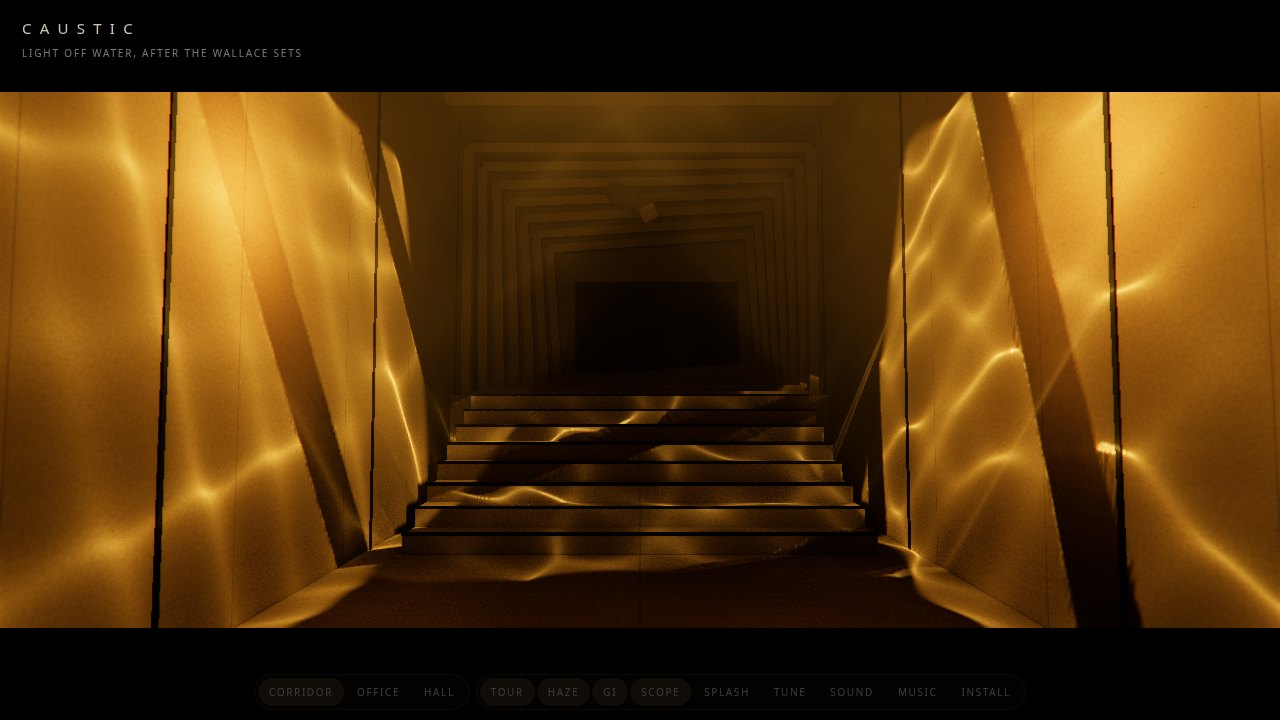
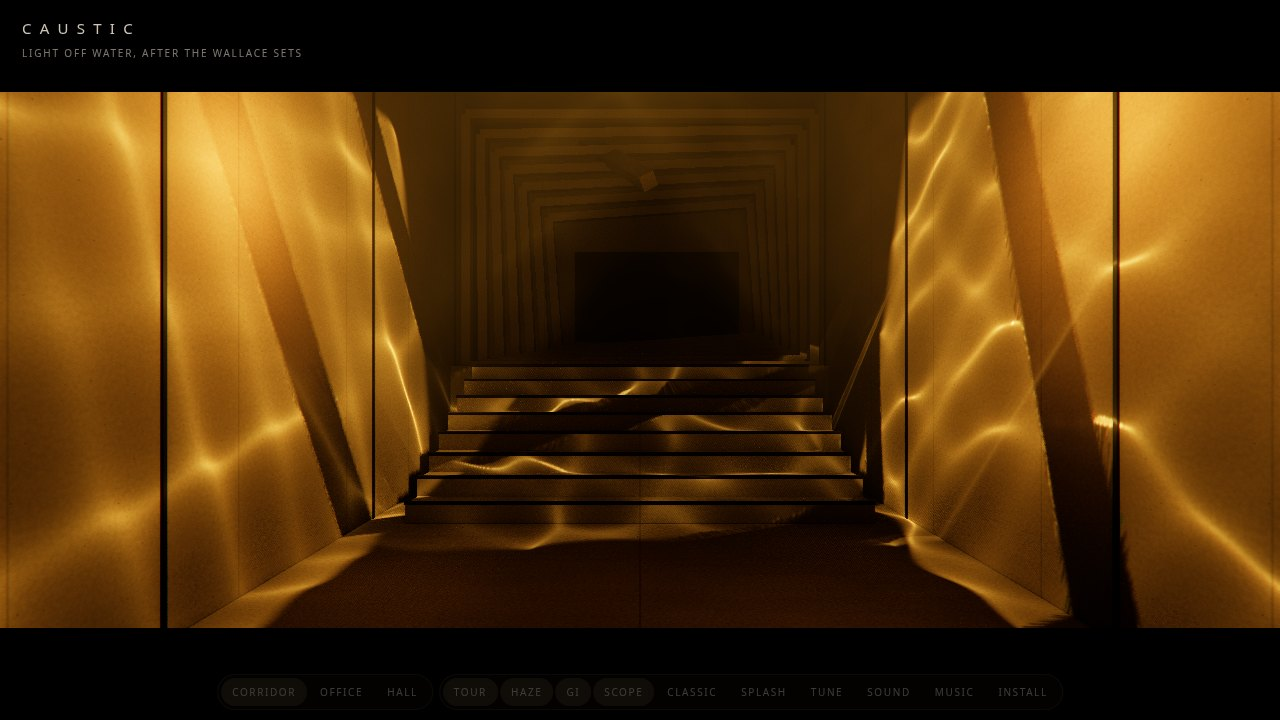
Caustic: square camera moves in every set (level, straight at a wall); hall centred, back and both side walls lit; smoke tolerates position probes on edges

diff --git a/vibes/caustic/scenes.js b/vibes/caustic/scenes.js
@@ -120,9 +120,11 @@ export function corridor(renderer, { phone = false, hq = false } = {}) {
     look: { exposure: 0.72, ...GRADE, haze: 0.0205, fog: 0x2a1f0c, bg: 0x050302 },
     volume: { size: [W, H + 1.5, z0 - z1], at: [0, (H + 1.5) / 2, (z0 + z1) / 2] },
     shots: [
-      { from: [0, 1.55, 2.6], to: [0, 1.6, -1.2], look0: [0, 2.0, -8], look1: [0, 2.1, -9], dur: 16, fov: 58 },
-      { from: [-2.0, 3.2, -1.5], to: [-1.6, 3.0, -3.5], look0: [2.6, 2.2, -4], look1: [2.6, 2.0, -6], dur: 12, fov: 50 },
-      { from: [1.5, 0.45, -2.2], to: [0.8, 0.6, -3.6], look0: [0, 1.0, -8], look1: [0, 1.6, -9], dur: 12, fov: 58 },
+      // every shot square to the room: the camera looks level and straight at a wall, so its verticals stay
+      // vertical and its edges run square across the frame
+      { from: [0, 1.6, 2.6], to: [0, 1.6, -1.2], look0: [0, 1.6, -11], look1: [0, 1.6, -11], dur: 16, fov: 58 },
+      { from: [-2.2, 2.2, -0.8], to: [-2.2, 2.2, -3.4], look0: [3, 2.2, -0.8], look1: [3, 2.2, -3.4], dur: 12, fov: 58 },
+      { from: [0, 0.8, -1.8], to: [0, 0.9, -3.0], look0: [0, 0.8, -11], look1: [0, 0.9, -11], dur: 12, fov: 54 },
     ],
     update() {},
   };
@@ -198,9 +200,9 @@ export function office(renderer, { phone = false, hq = false } = {}) {
     look: { exposure: 0.72, ...GRADE, haze: 0.0103, fog: 0x2a200c, bg: 0x070502 },
     volume: { size: [2 * X, H, zf - zb], at: [0, H / 2, (zf + zb) / 2] },
     shots: [
-      { from: [0, 1.7, 5.5], to: [0, 1.75, 4.0], look0: [0, 2.3, -8], look1: [0, 2.2, -8], dur: 18, fov: 72 },
-      { from: [-4.4, 1.4, 3.2], to: [-3.6, 1.5, 2.2], look0: [3.3, 1.2, -3], look1: [3.1, 1.3, -3.5], dur: 12, fov: 68 },
-      { from: [3.0, 4.5, 5.0], to: [1.2, 4.8, 5.0], look0: [-1.5, 1.5, -6], look1: [0, 1.4, -6], dur: 12, fov: 72 },
+      { from: [0, 2.0, 5.5], to: [0, 2.0, 4.0], look0: [0, 2.0, -8], look1: [0, 2.0, -8], dur: 18, fov: 72 },
+      { from: [-4.6, 1.8, -1.0], to: [-4.6, 1.8, -3.4], look0: [5.4, 1.8, -1.0], look1: [5.4, 1.8, -3.4], dur: 12, fov: 66 },
+      { from: [2.4, 3.0, 5.5], to: [0.4, 3.0, 5.5], look0: [2.4, 3.0, -8], look1: [0.4, 3.0, -8], dur: 12, fov: 66 },
     ],
     update() {},
   };
@@ -213,12 +215,12 @@ export function hall(renderer, scene, { phone = false, hq = false } = {}) {
   // walls meet in the dark behind a low square deck that stands in the water, with two armchairs and a table on
   // it and a line of stepping stones running off its far side. Light off the water climbs both walls from a
   // glowing band at the waterline, and a long ellipse of light hangs high over the deck.
-  const g = new THREE.Group(), S = 14, HW = 20; // the far walls at x = -S and z = -S; the room's height
+  const g = new THREE.Group(), S = 14, HW = 20; // the walls at x = +-S and z = +-S; the room's height
   const deck = wood({ base: 0x4a3418, light: 0x7a5a30, h: 0.5, rough: 0.55 });
   const black = leather(0x141110, 0.38), steel = plain(0x3a3632, 0.35, 1), stone = plain(0x0d0b09, 0.6), tableMat = plain(0x0c0a08, 0.35);
   const w = water(g, { size: 160, y: 0, ripple: 0.006 });
   g.add(w.mesh);
-  const DX = -0.5, DZ = -0.5; // the deck's centre
+  const DX = -1, DZ = 0; // the deck's centre
   box(g, 10, 0.24, 9, deck, DX, 0.1, DZ);
   armchair(g, black, steel, DX - 2.6, DZ - 2.4, 0.5, 1.1); armchair(g, black, steel, DX - 0.9, DZ - 2.1, -0.2, 1.1);
   box(g, 0.9, 0.42, 0.6, tableMat, DX - 1.8, 0.43, DZ - 3.3);
@@ -229,11 +231,11 @@ export function hall(renderer, scene, { phone = false, hq = false } = {}) {
   // the walls: four flat walls of big cast panels (the near two behind the camera), a dark reveal at the
   // waterline, and a black ceiling
   const wallMat = rough({ base: 0x6e6450, panel: [4.8, 3.4], seam: 0.18 }), revealMat = plain(0x030202, 0.9);
-  for (const [x, z, wx, wz] of [[-S, 0, 0.4, 2 * S + 8], [0, -S, 2 * S + 8, 0.4], [S + 8, 0, 0.4, 2 * S + 8], [0, S + 8, 2 * S + 8, 0.4]]) {
+  for (const [x, z, wx, wz] of [[-S, 0, 0.4, 2 * S], [0, -S, 2 * S, 0.4], [S, 0, 0.4, 2 * S], [0, S, 2 * S, 0.4]]) {
     box(g, wx, HW, wz, wallMat, x + (wx < 1 ? -Math.sign(x) * 0.2 : 0), HW / 2 - 0.5, z + (wz < 1 ? -Math.sign(z) * 0.2 : 0), { cast: false });
     box(g, wx < 1 ? 0.06 : wx, 0.08, wz < 1 ? 0.06 : wz, revealMat, x + (wx < 1 ? -Math.sign(x) * 0.02 : 0), 0.35, z + (wz < 1 ? -Math.sign(z) * 0.02 : 0), { cast: false });
   }
-  box(g, 2 * S + 10, 0.3, 2 * S + 10, plain(0x020101, 1), 4, HW - 0.4, 4, { cast: false });
+  box(g, 2 * S + 1, 0.3, 2 * S + 1, plain(0x020101, 1), 0, HW - 0.4, 0, { cast: false });
   // the light overhead: a long thin ellipse high over the deck on a cable from the dark, swinging slowly as a
   // pendulum, and the beam it throws down onto the deck swinging with it
   const pivot = new THREE.Group(); pivot.position.set(DX - 0.5, HW - 0.6, DZ - 1.5); g.add(pivot);
@@ -243,27 +245,29 @@ export function hall(renderer, scene, { phone = false, hq = false } = {}) {
   slit.name = 'slit'; slit.scale.set(3.4, 1, 0.7); slit.rotation.y = Math.PI / 4; slit.position.y = -LEN; pivot.add(slit); // its long axis across the view from the near corner
   const down = new THREE.SpotLight(GOLD2, 900, 0, 0.32, 0.8, 2); down.castShadow = true; down.shadow.mapSize.set(1024, 1024); down.shadow.bias = -0.0004;
   down.position.set(0, -LEN - 0.1, 0.2); pivot.add(down); down.target.position.set(DX, 0, DZ); g.add(down.target);
-  // the wall light: lamps out in the room shine down onto long strips of the water along the foot of each far
-  // wall, whose reflections climb the walls, brightest at the waterline and breaking into ripples higher up
+  // the wall light: lamps out in the room shine down onto long strips of the water along the foot of the back
+  // and side walls, whose reflections climb the walls, brightest at the waterline and breaking into ripples higher up
   const sh = phone ? 512 : 1024;
   const pool = (o) => new Trough(renderer, { mode: 'reflect', color: GOLD, res: phone ? 512 : hq ? 2048 : 1024, shadow: sh, far: 90, lMin: 0.5, lMax: 1.8, slope: 0.009, speed: 0.3, slosh: 0, edge: 0.15, ...o });
   const V3 = (a) => new THREE.Vector3(...a);
   const src = (c, to, d) => V3(c).addScaledVector(V3(to).sub(V3(c)).normalize(), -d).toArray();
   // (each strip stays clear of the deck, which would shadow the water under it)
-  const PL = [-S + 4.1, 0, -1], PB = [-1, 0, -S + 4.1];
+  const PL = [-S + 4.1, 0, 0], PR = [S - 4.1, 0, 0], PB = [0, 0, -S + 4.1], LONG = 2 * S - 3;
   const W2 = [
-    pool({ at: PL, size: [8, 24], turn: 0, from: src(PL, [-S, 3.6, -1], 22), lux: 4.2, edge: 0.3, seed: 5 }),
-    pool({ at: PB, size: [24, 8], turn: 0, from: src(PB, [-1, 3.6, -S], 22), lux: 4.2, edge: 0.3, seed: 8 }),
+    pool({ at: PB, size: [LONG, 8], from: src(PB, [0, 3.6, -S], 22), lux: 4.2, edge: 0.3, seed: 8 }),
+    pool({ at: PL, size: [8, LONG], from: src(PL, [-S, 3.6, 0], 22), lux: 4.2, edge: 0.3, seed: 5 }),
+    pool({ at: PR, size: [8, LONG], from: src(PR, [S, 3.6, 0], 22), lux: 4.2, edge: 0.3, seed: 9 }),
   ];
   const L = [...W2.map((w) => w.light), down];
   for (const w of W2) { g.add(w.light, w.light.target); w.bake(g); }
   const n0 = g.children.length;
-  for (const l of L.slice(0, 2)) g.add(bounce(l, { albedo: BOUNCE, share: 0.01, off: 3.0 }));
+  for (const l of L.slice(0, 3)) g.add(bounce(l, { albedo: BOUNCE, share: 0.01, off: 3.0 }));
   const n1 = g.children.length;
   const ripples = new Caustics(renderer, { kMin: 2, kMax: 9, amp: 1.0, depth: 0.06, speed: 0.5, dir: 0, spread: Math.PI, grid: phone ? 160 : 256, seed: 5 });
   const C = classic(g, [
-    aim(g, causticSpot(ripples, { color: GOLD, intensity: 5000, angle: 0.5, penumbra: 1, scale: 3.0, rot: 0.2, shadow: sh, far: 90 }), [8, 0.1, 6], [-S, 4, -1]),
-    aim(g, causticSpot(ripples, { color: GOLD, intensity: 5000, angle: 0.5, penumbra: 1, scale: 2.8, rot: -0.4, drift: [0.002, 0], shadow: sh, far: 90 }), [6, 0.1, 8], [1, 4, -S]),
+    aim(g, causticSpot(ripples, { color: GOLD, intensity: 5000, angle: 0.55, penumbra: 1, scale: 3.0, rot: 0.2, shadow: sh, far: 90 }), [0, 0.1, 13.5], [0, 4, -S]),
+    aim(g, causticSpot(ripples, { color: GOLD, intensity: 4000, angle: 0.55, penumbra: 1, scale: 2.8, rot: -0.4, drift: [0.002, 0], shadow: sh, far: 90 }), [13.5, 0.1, 0], [-S, 4, 0]),
+    aim(g, causticSpot(ripples, { color: GOLD, intensity: 4000, angle: 0.55, penumbra: 1, scale: 2.9, rot: 0.9, shadow: sh, far: 90 }), [-13.5, 0.1, 0], [S, 4, 0]),
   ], { albedo: BOUNCE, share: 0.01, off: 3.0 });
   pivot.updateMatrixWorld(true); down.position.applyMatrix4(pivot.matrixWorld); // bounce() reads world positions
   const deckBounce = bounce(down, { albedo: 0x7a6040, share: 0.02, off: 1.6 }); g.add(deckBounce);
@@ -272,14 +276,15 @@ export function hall(renderer, scene, { phone = false, hq = false } = {}) {
   return {
     group: g, caustics: W2, lights: L, reflector: w.reflector,
     tuned: { exposure: 0.6, size: 0.6, height: 0.5 },
-    modes: { traced: { ...traced(g, W2.map((w) => w.light), n0, n1), caustics: W2, tuned: { exposure: 0.6, size: 0.6, height: 0.5 } }, classic: { ...C, caustics: [ripples], tuned: {} }, shared: [down] },
+    modes: { traced: { ...traced(g, W2.map((w) => w.light), n0, n1), caustics: W2, tuned: { exposure: 0.6, size: 0.6, height: 0.5 } }, classic: { ...C, caustics: [ripples], tuned: { exposure: 0.4 } }, shared: [down] },
     look: { exposure: 1.0, ...GRADE, haze: 0.0066, fog: 0x0a0803, bg: 0x000000 },
     volume: { size: [2 * S - 1, HW - 1, 2 * S - 1], at: [0, HW / 2, 0] },
     shots: [
-      // the still: from the near corner, looking across the deck into the far one
-      { from: [11, 3.2, 10.5], to: [10, 3.0, 9.5], look0: [-9, 4.6, -9], look1: [-9, 4.4, -9.5], dur: 18, fov: 52 },
-      { from: [-9, 0.9, 6], to: [-8, 0.8, 5], look0: [DX, 0.8, DZ - 2], look1: [DX + 1, 1.0, DZ - 2.5], dur: 12, fov: 48 },
-      { from: [10, 0.6, -1], to: [8.5, 0.7, -1.5], look0: [-S, 3, -6], look1: [-S, 4, -8], dur: 14, fov: 54 },
+      // square to the room: level, straight at the back wall across the deck, then at the side wall, then low
+      // over the water, trucking along the back wall
+      { from: [0, 2.4, 12.5], to: [0, 2.4, 10.5], look0: [0, 2.4, -S], look1: [0, 2.4, -S], dur: 18, fov: 56 },
+      { from: [11, 1.4, 1.2], to: [11, 1.4, -1.2], look0: [-S, 1.4, 1.2], look1: [-S, 1.4, -1.2], dur: 12, fov: 56 },
+      { from: [5, 0.7, 7], to: [2.5, 0.7, 7], look0: [5, 0.7, -S], look1: [2.5, 0.7, -S], dur: 14, fov: 56 },
     ],
     // a slow pendulum swing, mostly side to side (5 degrees each way, 7.6 s), with a little fore-and-aft so it wanders
     update(t) { pivot.rotation.z = 0.09 * Math.sin(t * 2 * Math.PI / 7.6); pivot.rotation.x = 0.02 * Math.sin(t * 2 * Math.PI / 11.3 + 1.3); },

diff --git a/vibes/caustic/smoke.js b/vibes/caustic/smoke.js
@@ -51,13 +51,13 @@ const check = (name, ok, extra = '') => { console.log(`${ok ? 'ok  ' : 'FAIL'} $
       const st = await E('__caustic.causticStats()');
       check(`${tag}${set}: the caustic is lit and has lines`, st.mean > 0.5 && st.mean < 1.6 && st.sd > 0.4 && st.max > 3 && st.lit > 0.05, `mean ${st.mean.toFixed(2)}, sd ${st.sd.toFixed(2)}, max ${st.max.toFixed(1)}, lit ${(st.lit * 100).toFixed(0)}%`);
       const pc = await E('__caustic.posCheck()');
-      check(`${tag}${set}: each beam's map of the set matches a traced ray`, pc.length > 0 && pc.every((p) => p.n >= 8 && p.bad < 1), pc.map((p) => `${p.n} probes, worst ${p.bad.toFixed(2)}`).join('; '));
+      check(`${tag}${set}: each beam's map of the set matches a traced ray`, pc.length > 0 && pc.every((p) => p.n >= 8 && p.bad < 1 && p.off <= Math.max(1, p.n * 0.08)), pc.map((p) => `${p.n} probes, worst ${p.bad.toFixed(2)}, ${p.off} on edges`).join('; '));
       const er = errors(); check(`${tag}${set}: no console or shader errors`, er.length === 0, er.slice(0, 3).join(' | ').slice(0, 1500));
       if (!tag) {
         const sd = await E('__caustic.splashTest()');
         check(`${set}: a splash ripples the caustic`, sd > 0.02, `mean change ${sd.toFixed(3)}`);
         await E('__caustic.shot(0, 0.4)');
-        const n = await E(`__caustic.splashAt(innerWidth * ${set === 'hall' ? 0.12 : set === 'corridor' ? 0.15 : 0.5}, innerHeight * ${set === 'hall' ? 0.3 : 0.5})`);
+        const n = await E(`__caustic.splashAt(innerWidth * ${set === 'corridor' ? 0.15 : 0.5}, innerHeight * 0.35)`);
         check(`${set}: a tap on a lit wall lands in a caustic beam`, n > 0, `${n} beams`);
       }
       if (!tag) { await E('__caustic.shot(0, 0.4); __caustic.splashAll(1.2)'); await E('__caustic.frame(100)'); await shot(`splash_${set}`); }

diff --git a/vibes/caustic/main.js b/vibes/caustic/main.js
@@ -334,14 +334,14 @@ window.__caustic = {
     for (const w of cur.caustics) {
       if (!w.probe) continue;
       const uvs = []; for (let i = 0; i < 6; i++) for (let j = 0; j < 6; j++) uvs.push([0.12 + 0.76 * i / 5, 0.12 + 0.76 * j / 5]);
-      const got = await w.probe(uvs), cam = w.cam2; let bad = 0, n = 0;
+      const got = await w.probe(uvs), cam = w.cam2; let bad = 0, n = 0, off = 0;
       uvs.forEach(([u, v], k) => {
         rc.setFromCamera(new THREE.Vector2(2 * u - 1, 2 * v - 1), cam); rc.far = cam.far;
         const h = rc.intersectObject(cur.group, true).find((x) => x.object.isMesh && x.point.clone().sub(w.C).dot(w.room) >= 0.005);
         if (!h || got[k][3] < 0.5) return;
-        n++; bad = Math.max(bad, Math.hypot(h.point.x - got[k][0], h.point.y - got[k][1], h.point.z - got[k][2]) / Math.max(1, h.distance * 0.03));
+        n++; const e = Math.hypot(h.point.x - got[k][0], h.point.y - got[k][1], h.point.z - got[k][2]) / Math.max(1, h.distance * 0.03); if (e > 1) off++; else bad = Math.max(bad, e);
       });
-      worst.push({ n, bad });
+      worst.push({ n, bad, off }); // off: probes on an edge between two surfaces, where a texel holds the other one
     }
     return worst;
   },

diff --git a/CHANGELOG.md b/CHANGELOG.md
@@ -1,6 +1,7 @@
 # Logs
 
 11 Nov 2026
+- Caustic: every camera move is square to its room, level and straight at a wall, so verticals stay vertical and walls face the camera. The hall is a square room centred on the deck, with water strips lighting the back wall and both side walls
 - Caustic: the hall rebuilt after the stills as a dark square room flooded with black water (flat concrete walls, a low wooden deck with chairs and a table, stepping stones, a long ellipse of light overhead), lit by long strips of water along the foot of the two far walls. A Classic toggle (`c`, `?classic`) brings back the first version's tiled, projected caustic for every set; tap-to-splash works in both. `rough()` takes the surface's own coordinates for curved walls; traced lamps' cones widened so they never cut the light
 - Caustic: each set's tuning found by eye is now its default (corridor exposure x1.75, haze x6, ripples x1.63, sharpness x0.28, speed x1.35; office exposure x0.5; hall exposure x0.6, ripples x0.6, waves x0.5), and the Tune sliders scale it. `?hq` traces the light at twice the resolution. Smoother traced light: brightness from each ray's Jacobian (interpolated signed determinant, rounded by the lamp's size, bounded by the triangle's area ratio), a distance map blended across texels on one surface, a short side of 1024 texels, a lamp-size blur and mipmaps
 - Caustic: the water light is traced in 3D instead of projected from a tile. Each lamp has its own water placed in the set (glass tanks over the corridor's roof, troughs on the office floor and a tank in its skylight, patches of the hall's flooded floor), and a spot light at the light's apparent source (the lamp, or its mirror image under the water). Each frame a grid of rays, spread evenly in the lamp's projection, is bent by the waves (mirror law or Snell twice), pushed out to the surface it really lands on through a once-made map of world positions from the source, and drawn where it lands with the flat-over-wavy area ratio. The light now fans out of the water's outline, stretches along the throw, is soft near the water and sharp far from it, and no longer repeats. The texture fits the footprint (off-centre frustum, about a million texels); dispersion only for tanks. `node smoke.js` also checks each position map against CPU raycasts on both backends (27 checks)
